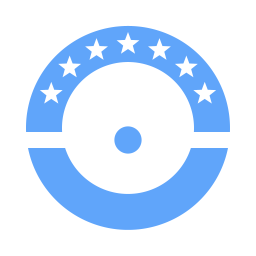
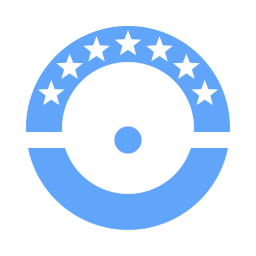
Overcast mark: larger stars; 28 px in the embedded title
Seven stars need about 28 px of mark to read; at 18 px they vanished.

Claude-Session: https://claude.ai/code/session_01VURY5nBRiT2QrnbVPGRjTM

diff --git a/src/ui/styles/overcast-embed.css b/src/ui/styles/overcast-embed.css
@@ -14,13 +14,14 @@ html.overcast-embed #title-bar h1 {
   font-size: 13px;
   letter-spacing: 0.3em;
 }
+/* 28 px: the seven stars in the mark need about that much to read. */
 html.overcast-embed #title-bar .title-logo {
-  width: 18px;
+  width: 28px;
 }
 html.overcast-embed #title-bar .title-logo img,
 html.overcast-embed #title-bar .title-logo svg {
-  width: 18px;
-  height: 18px;
+  width: 28px;
+  height: 28px;
 }
 /* The first-run picker is a full-screen choice; in the panel it would cover
    the whole map. It still runs in full screen (/globe/). */
